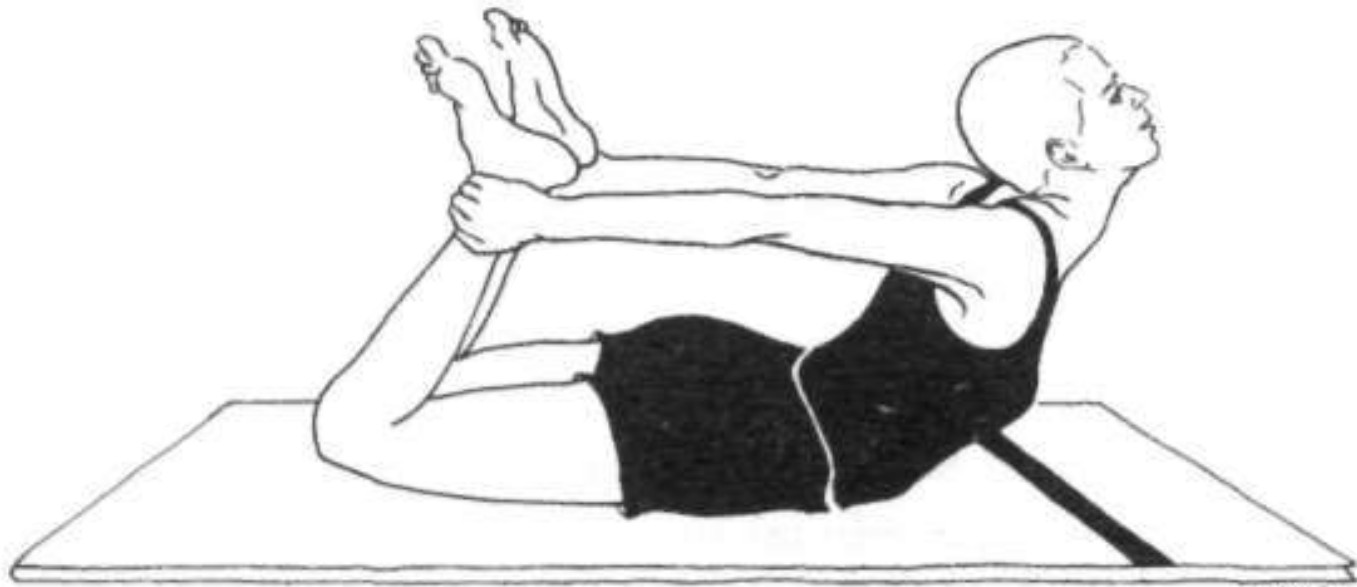
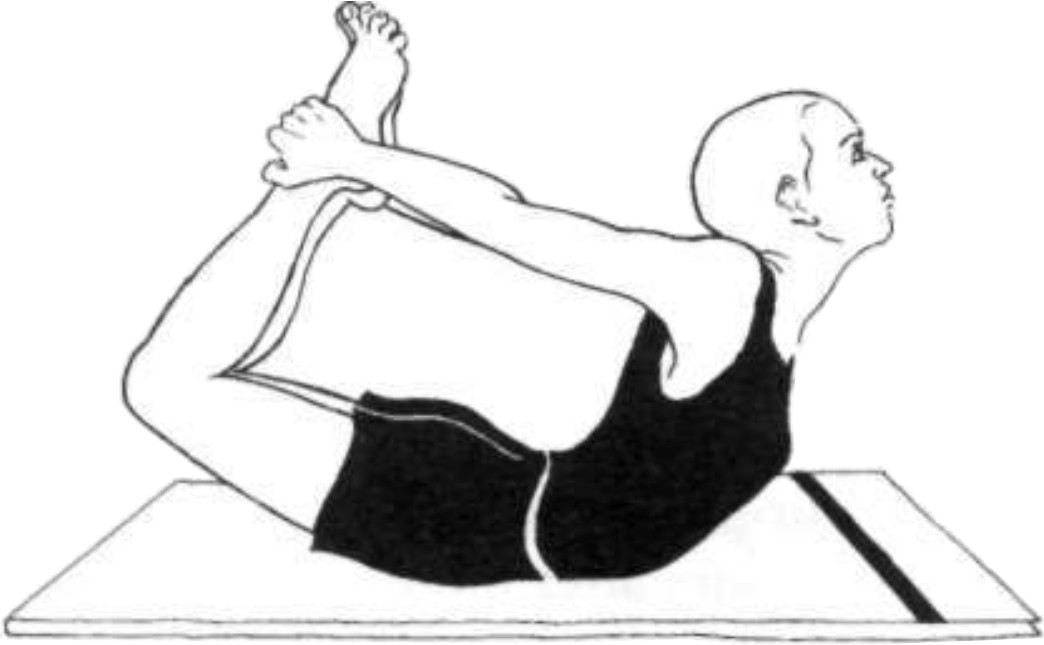
Updated color scheme of ypg and updated the dhanurasana picture.

diff --git a/events.html b/events.html
@@ -11,12 +11,6 @@
 
   gtag('config', 'UA-115469133-1');
 
-
-
-
-
-
-
     </script>
 
     <meta charset="utf-8">
@@ -98,12 +92,17 @@
                 <strong>Venue:</strong> 3rd floor, Multi Purpose Hall, New Gymkhana Building, Opp. Hostel
                 11.<br>
 
-                <a href="https://docs.google.com/forms/d/e/1FAIpQLSe26NsDQJ5_6sXH7e9pBSDJey12GxWRiT4U7zEmRqE8I3XxCA/viewform?usp=sf_link"
-                   style="margin:10px"
-                   class="btn btn-success" role="button">Register for Yoga Pratiyogita</a><br>
+                <p>
+                    Find further details and rules at:
+                    <a href="http://www.iitbyogastha.in/ypg">www.iitbyogastha.in/ypg</a>
+                <p>
+                    <a href="https://docs.google.com/forms/d/e/1FAIpQLSe26NsDQJ5_6sXH7e9pBSDJey12GxWRiT4U7zEmRqE8I3XxCA/viewform?usp=sf_link"
+                       style="margin:10px"
+                       class="btn btn-success" role="button">Register for Yoga Pratiyogita</a><br>
 
                 <div class="row" style="padding: 2px;">
-                    <div class="col-md-4" style="border-radius: 10px; padding: 4px; color:black; box-shadow: 0px 0px 2px 2px white;">
+                    <div class="col-md-4"
+                         style="border-radius: 10px; padding: 4px; color:black; box-shadow: 0px 0px 2px 2px white;">
                         <h5>Group 1 (Age below 25)</h5>
                         <ul>
                             <li>Dhanurasana</li>
@@ -116,7 +115,8 @@
                             <li>Sarvangasana</li>
                         </ul>
                     </div>
-                    <div class="col-md-4" style="border-radius: 10px; padding: 4px; color:black; box-shadow: 0px 0px 2px 2px white;">
+                    <div class="col-md-4"
+                         style="border-radius: 10px; padding: 4px; color:black; box-shadow: 0px 0px 2px 2px white;">
                         <h5>Group 2 (Age 25-35)</h5>
                         <ul>
                             <li>Chakrasana</li>
@@ -129,7 +129,8 @@
                             <li>Dwikonasana</li>
                         </ul>
                     </div>
-                    <div class="col-md-4" style="border-radius: 10px; padding: 4px; color:black; box-shadow: 0px 0px 2px 2px white;">
+                    <div class="col-md-4"
+                         style="border-radius: 10px; padding: 4px; color:black; box-shadow: 0px 0px 2px 2px white;">
                         <h5>Group 3 (Age above 35)</h5>
                         <ul>
                             <li>Paschimottanasana</li>

diff --git a/ypg.html b/ypg.html
@@ -104,16 +104,14 @@
 
         <!--Event Start-->
         <div class="row" style="box-shadow: 2px 2px 8px black;">
-            <div class="col-sm-12" style="background:#0082d0; padding:10px">
-                <h3 style="text-align:left; color: white">
-                    <strong>
+            <div class="col-sm-12" style="background:#eb984e; padding:10px">
+                <h1 style="font-weight:bold; text-shadow: 0px 2px 8px red; text-align:center; color:white">
                         Yoga Pratiyogita
-                    </strong>
-                </h3>
+                </h1>
             </div>
 
             <div class="col-sm-8" style="background: #efefef; text-align: left">
-                <div class="row" style="padding: 5px; background:#0874bd; color:white;">
+                <div class="row" style="padding: 5px; background:#dc7633; color:black;">
                     <h4 class="col-sm-12">
                         18<sup>th</sup> Mar 2018
                     </h4>
@@ -190,7 +188,7 @@
 
             </div>
 
-            <div class="col-sm-4" style="padding:5px; background:#0874bd;">
+            <div class="col-sm-4" style="padding:5px; background:#dc7633;">
                 <img class="col-sm-12 hidden-xs-down img-responsive img-thumbnail"
                      src="img/events_thumbnails/yoga_pratiyogita.jpg" alt="Image of the event">
             </div>
